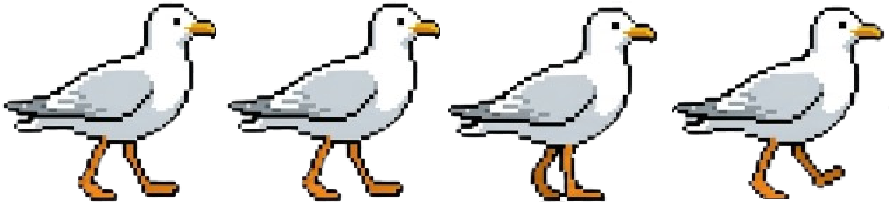
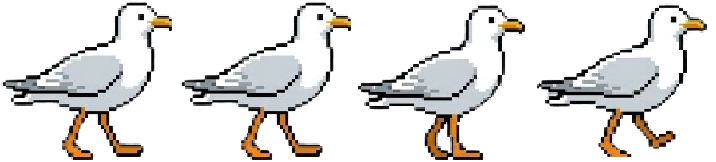
Scale down walking sprite (#2)
* Makes the body closer to what the flying sprite looks like.

diff --git a/src/objects/Seagull.ts b/src/objects/Seagull.ts
@@ -25,8 +25,8 @@ export class Seagull extends Character {
   private static readonly WALKING = new Sprite(
     'seagull-walking',
     'assets/seagull/seagull-walking.png',
-    224,
-    203,
+    179,
+    162,
     new Animation('walk', 0, 3, 8, -1),
   );
 
